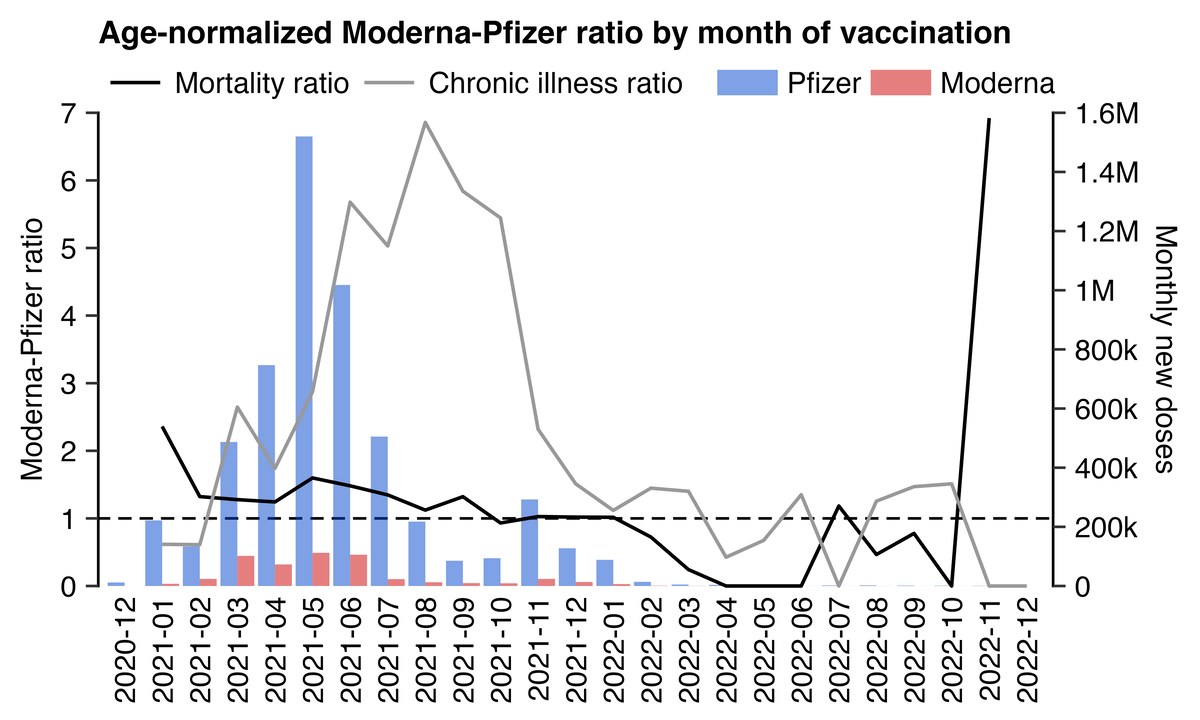
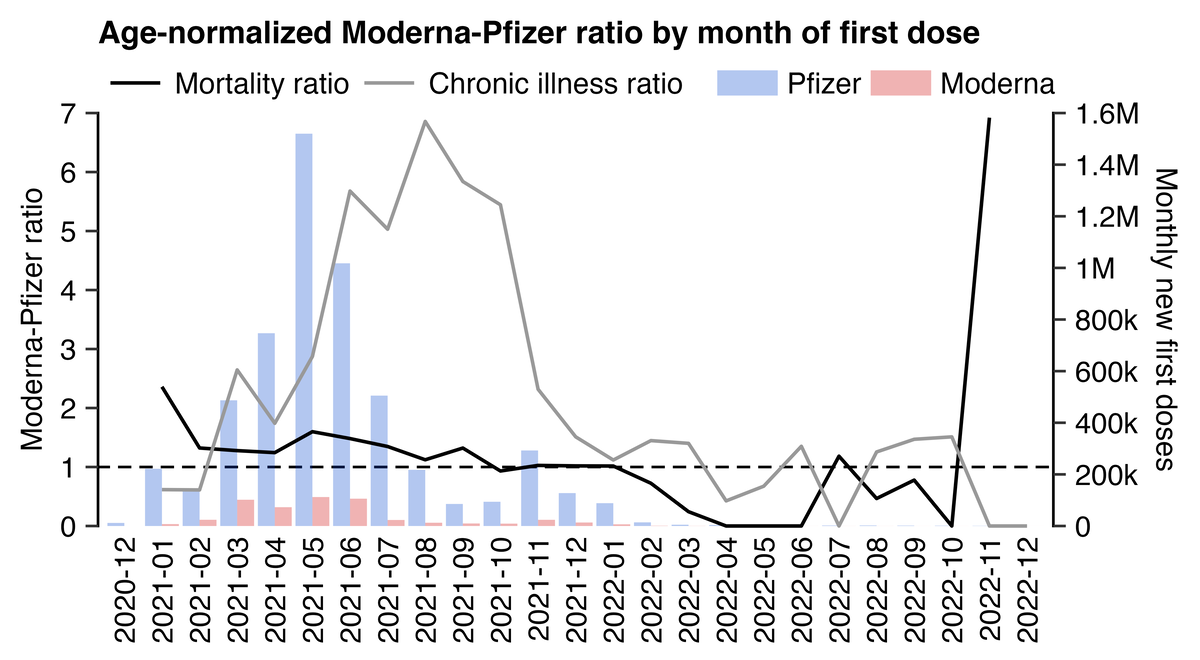
a

diff --git a/czech3.html b/czech3.html
@@ -63,6 +63,7 @@ blockquote blockquote blockquote,blockquote blockquote .quote,blockquote .quote 
 <li><a href=#Batch_safety_study_by_authors_from_Palack_University>Batch safety study by authors from Palacký University</a></li>
 <li><a href=#Monthly_percentage_of_COVID_deaths_in_unvaccinated_people>Monthly percentage of COVID deaths in unvaccinated people</a></li>
 <li><a href=#Age_standardized_hospitalization_rate_by_vaccination_status>Age-standardized hospitalization rate by vaccination status</a></li>
+<li><a href=#Hospitalizations_by_age_group_and_vaccination_status>Hospitalizations by age group and vaccination status</a></li>
 </ul>
 
 <h2>
@@ -216,7 +217,7 @@ round(m[&quot;Moderna&quot;,]/m[&quot;Pfizer&quot;,],2)</pre>
      NA      NA      NA    0.00    0.00    0.00    0.00    0.00      NA      NA
 2024-04 2024-05 2024-06 2024-07
      NA      NA     NaN      NA</pre>
-<p>This shows the chronic illness ratio compared to the age-normalized mortality ratio:</p>
+<p>This shows the age-normalized chronic illness ratio compared to the age-normalized mortality ratio:</p>
 <div class="width7">
 <img src="i/czech-chronic-4.png">
 </div>
@@ -456,11 +457,11 @@ a[order(-pyears)]|&gt;print(r=F)</pre>
                   Covovax      -100                0       85
                 Sputnik V      -100                0       28
                   COVAXIN      -100                0       16</pre>
-<p>The plot below shows the excess hospitalization percent by age and the month of the first dose. There's a diagonal pattern across different age groups where there's a low excess hospitalization percent during the same month when the number of new first doses peaked in the age group:</p>
+<p>The plot below shows the excess hospitalization percent by age and the month of the first dose. There's a diagonal pattern across different age groups where there's a low excess hospitalization percent during the same month when the number of first doses peaked in the age group:</p>
 <div class="width9">
 <img src="i/czech-hosprate.png">
 </div>
-<p>In the plot below I didn't normalize the total excess mortality by the month of vaccination so Janssen again got 57% excess hospitalizations, because late vaccinees also had a high age-normalized hospitalization rate for other vaccine types. However even in May 2021 when the total number of doses given peaked, Janssen and AstraZeneca had a much higher total hospitalization rate than Pfizer and Moderna:</p>
+<p>The next plot shows the excess hospitalization rate by vaccine type instead of age group. Janssen and AstraZeneca got a much higher total hospitalization rate than Pfizer and Moderna. I didn't normalize the total excess mortality by the month of vaccination so Janssen again got 57% excess hospitalizations (because the late vaccinees who had a high hospitalization rate were overrepresented for Janssen vaccines):</p>
 <div class="width10">
 <img src="i/czech-hosprate-2.png">
 </div>
@@ -520,7 +521,7 @@ system(paste0(&quot;pad=24;w=`identify -format %w i1.png`;magick -pointsize 40 -
 <img src="i/czech-mrrweeks.png">
 </div>
 <p>In the black line the ratio was only normalized by age. In the gray line the ratio was additionally normalized by ongoing month, but it didn't change the results that much.</p>
-<p>But anyway, you would at least think that there would be more vaccine deaths in weeks 0 to 29 than weeks 60 to 89. But because the Moderna-Pfizer ratio remains consistently elevated even more than a year after vaccination, it rather seems to be the product of the same kind of confounding factors which also cause late vaccinees to have much higher age-normalized mortality than early vaccinees.</p>
+<p>But anyway, you would at least think that there would be more vaccine deaths in weeks 0 to 29 after vaccination than in weeks 60 to 89. But because the Moderna-Pfizer ratio remains consistently elevated even more than a year after vaccination, it rather seems to be the product of some kind of confounding factors.</p>
 <pre>b=data.table::fread(&quot;http://sars2.net/f/czbucketskeep.csv.gz&quot;)
 b[,age:=pmax(pmin(95,age%/%5*5),15)]
 
@@ -596,7 +597,7 @@ a[,.(excess=(sum(hosp)/sum(base)-1)*100),type][order(-excess),excess:=round(exce
 <h2>
 <a href=#Batch_safety_study_by_authors_from_Palack_University id=Batch_safety_study_by_authors_from_Palack_University>Batch safety study by authors from Palacký University</a>
 </h2>
-<p>In June 2024 the Czech authors who uploaded the record-level data to GitHub published a paper which analyzed batch safety data they received through a freedom of information response: <a href="https://onlinelibrary.wiley.com/doi/abs/10.1111/eci.14271">https://onlinelibrary.wiley.com/doi/abs/10.1111/eci.14271</a>. The paper is behind a paywall, but I bought access to it and posted screenshots of the paper here: <a href=i/czech-batch-study.jpg>i/czech-batch-study.jpg</a>. The batch data can be downloaded from here: <a href="https://github.com/PalackyUniversity/batch-dependent-safety/blob/main/data/SUKL-batches-AE.xlsx">https://github.com/PalackyUniversity/batch-dependent-safety/blob/main/data/SUKL-batches-AE.xlsx</a>.</p>
+<p>In June 2024 the Czech authors who uploaded the record-level data to GitHub published a paper which analyzed batch safety data they received through a freedom of information response: <a href="https://onlinelibrary.wiley.com/doi/abs/10.1111/eci.14271">https://onlinelibrary.wiley.com/doi/abs/10.1111/eci.14271</a>. The paper is behind a paywall, but I bought access to it and posted screenshots of the paper here: <a href=i/czech-batch-study.jpg>i/czech-batch-study.jpg</a>. The batch data is available from this spreadsheet: <a href="https://github.com/PalackyUniversity/batch-dependent-safety/blob/main/data/SUKL-batches-AE.xlsx">https://github.com/PalackyUniversity/batch-dependent-safety/blob/main/data/SUKL-batches-AE.xlsx</a>.</p>
 <p>In the spreadsheet posted at GitHub, Pfizer vaccines got a lower rate of deaths than Moderna vaccines but a higher rate of serious adverse events:</p>
 <pre>library(data.table);library(openxlsx)
 
@@ -648,17 +649,37 @@ Other             6.53          1.10</pre>
      Janssen 47.3
      Novavax 41.5</pre>
 <p>However when I took an average age for the batches from the record-level data, it got a fairly low correlation with both the rate of deaths per batch and the rate of serious adverse events per batch:</p>
-<pre>&gt; download.file(&quot;http://sars2.net/f/czbucketsbatchkeep.csv.xz&quot;,&quot;czbucketsbatchkeep.csv.xz&quot;)
-&gt; b=fread(&quot;xz -dc czbucketsbatchkeep.csv.xz&quot;)
-&gt; ages=b[batch!=&quot;&quot;,.(alive=sum(alive)),.(age,batch)][,.(age=weighted.mean(age,alive)),batch]
-&gt; s1=data.table(read.xlsx(f))[,.(batch=sub(&quot;^\t&quot;,&quot;&quot;,batch_id),doses=doses_per_batch)]
-&gt; s2=data.table(read.xlsx(f,sheet=2))[,.(dead=sum(deaths),serious=sum(serious)),batch]
-&gt; me=merge(merge(s1,ages,all=T),s2,all=T)
-&gt; me[is.na(me)]=0
-&gt; me[doses&gt;0,cor(dead/doses,age)] # the correlation was about 0.18 between age and the rate of deaths
-[1] 0.1825102
-&gt; me[doses&gt;0,cor(serious/doses,age)] # the correlation was about 0.18 between age and the rate of serious adverse events
-[1] 0.1874058</pre>
+<pre>download.file(&quot;http://sars2.net/f/czbucketsbatchkeep.csv.xz&quot;,&quot;czbucketsbatchkeep.csv.xz&quot;)
+b=fread(&quot;xz -dc czbucketsbatchkeep.csv.xz&quot;)
+
+ages=b[batch!=&quot;&quot;,.(alive=sum(alive)),.(age,batch)][,.(age=weighted.mean(age,alive)),batch]
+
+s1=data.table(read.xlsx(f))[,.(batch=sub(&quot;^\t&quot;,&quot;&quot;,batch_id),doses=doses_per_batch)]
+s2=data.table(read.xlsx(f,sheet=2))[,.(dead=sum(deaths),serious=sum(serious)),batch]
+
+me=merge(merge(s1,ages,all=T),s2,all=T)
+me[is.na(me)]=0
+
+me[doses&gt;0,cor(dead/doses,age)]
+# [1] 0.1825102 (correlation between age and the rate of deaths)
+
+me[doses&gt;0,cor(serious/doses,age)]
+# [1] 0.1874058 (correlation between age and the rate of serious adverse events)</pre>
+<p>In the following code I calculated an age-normalized mortality rate for each batch in the record-level data. Its correlation was about -0.01 with both the rate of deaths in the spreadsheet and the rate of serious adverse events:</p>
+<pre>b=fread(&quot;xz -dc czbucketsbatchkeep.csv.xz&quot;)
+d=b[,.(dead=sum(dead),alive=sum(alive)),.(batch,age=ifelse(age&lt;15,0,pmin(age,95)))]
+d=merge(d,d[,.(base=sum(dead)/sum(alive)),.(age)])[,base:=base*alive]
+d=d[,.(rate=sum(dead)/sum(base)),batch]
+
+f=&quot;SUKL-batches-AE.xlsx&quot;
+s1=data.table(read.xlsx(f))[,.(batch=sub(&quot;^\t&quot;,&quot;&quot;,batch_id),doses=doses_per_batch)]
+s2=data.table(read.xlsx(f,sheet=2))[,.(dead=sum(deaths),serious=sum(serious)),batch]
+
+merge(d,merge(s1,s2)[doses&gt;0,.(reported=dead/doses),batch])[,cor(rate,reported)]
+# [1] -0.009126758
+
+merge(d,merge(s1,s2)[doses&gt;0,.(reported=serious/doses),batch])[,cor(rate,reported)]
+# [1] -0.01475335</pre>
 <h2>
 <a href=#Monthly_percentage_of_COVID_deaths_in_unvaccinated_people id=Monthly_percentage_of_COVID_deaths_in_unvaccinated_people>Monthly percentage of COVID deaths in unvaccinated people</a>
 </h2>
@@ -705,7 +726,7 @@ uv=rbind(uv,u[!month%in%uv$month,.(month,unvaxpoppct=uv[month==&quot;2022-12&quo
 
 me=merge(u,uv)[,ratio:=round(unvaxdeadpct/unvaxpoppct,1)]
 me[,4:5]=round(me[,4:5]);print(me,r=F)</pre>
-<p>The output shows that starting from May 2021 when the rollout of the first dose peaked, the percentage of COVID deaths in unvaccinated people out of all COVID deaths was about 2-4 times higher than the weighted percentage of the unvaccinated population size:</p>
+<p>The output shows that starting from May 2021 the percentage of COVID deaths in unvaccinated people was about 2 to 4 times higher than the weighted percentage of the unvaccinated population size:</p>
 <pre>   month totaldead unvaxdead unvaxdeadpct unvaxpoppct ratio
  2020-03        35        35          100         100   1.0
  2020-04       207       207          100         100   1.0
@@ -764,8 +785,8 @@ me[,4:5]=round(me[,4:5]);print(me,r=F)</pre>
 <h2>
 <a href=#Age_standardized_hospitalization_rate_by_vaccination_status id=Age_standardized_hospitalization_rate_by_vaccination_status>Age-standardized hospitalization rate by vaccination status</a>
 </h2>
-<p>The CSV file which showed hospitalizations by vaccine type didn't include the hospitalization date, but there's another file which includes the hospitalization week but not vaccine type: <a href="https://onemocneni-aktualne.mzcr.cz/api/v2/covid-19/ockovani-hospitalizace-tyden.csv">https://onemocneni-aktualne.mzcr.cz/api/v2/covid-19/ockovani-hospitalizace-tyden.csv</a>.</p>
-<p>I used the file to make the plot below, which shows that during the COVID wave in December 2021, unvaccinated people had about 6 times higher age-standardized hospitalization rate than vaccinated people. However the difference between the rates got smaller over time which may have been because unvaccinated people acquired natural immunity over time. So by December 2023 the rate was only about 1.5 times higher in unvaccinated people than in vaccinated people:</p>
+<p>The CSV file which showed hospitalizations by vaccine type didn't include the date of hospitalization, but there's another file which includes the week of hospitalization but not vaccine type: <a href="https://onemocneni-aktualne.mzcr.cz/api/v2/covid-19/ockovani-hospitalizace-tyden.csv">https://onemocneni-aktualne.mzcr.cz/api/v2/covid-19/ockovani-hospitalizace-tyden.csv</a>.</p>
+<p>I used the file to make the plot below, which shows that during the COVID wave in December 2021, unvaccinated people had about 6 times higher age-standardized hospitalization rate than vaccinated people. However the difference between the rates got smaller over time which may have been if unvaccinated people acquired natural immunity over time. So by December 2023 the rate was only about 1.5 times higher in unvaccinated people than in vaccinated people:</p>
 <div class="width6">
 <img src="i/czech-hospstandard.png">
 </div>
@@ -836,6 +857,119 @@ theme(axis.text=element_text(size=7,color=&quot;black&quot;),
   plot.subtitle=element_text(size=6.7,margin=margin(0,0,4,0)),
   plot.title=element_text(size=7.5,face=&quot;bold&quot;,margin=margin(2,0,4,0)))
 ggsave(&quot;1.png&quot;,width=3.8,height=2.3,dpi=300)</pre>
+<h2>
+<a href=#Hospitalizations_by_age_group_and_vaccination_status id=Hospitalizations_by_age_group_and_vaccination_status>Hospitalizations by age group and vaccination status</a>
+</h2>
+<p>The file <code>ockovani-hospitalizace-tyden.csv</code> has hospitalizations by age group and vaccination status, but it's missing data for 2020. The file <code>nakazeni-hospitalizace-testy.csv</code> has hospitalizations by age group and it includes 2020, but it's missing the vaccination stats, and also the total number of hospitalizations is much higher in than in the other file:</p>
+<pre>&gt; ho1=fread(&quot;ockovani-hospitalizace-tyden.csv&quot;)
+&gt; ho2=fread(&quot;nakazeni-hospitalizace-testy.csv&quot;)
+&gt; d1=ho1[,.(tyden=sum(hospitalizovani_celkem)),.(year=substr(tyden,1,4))]
+&gt; d2=ho2[,.(testy=sum(nove_hospitalizace,na.rm=T)),.(year=substr(datum,1,4))]
+&gt; merge(d1,d2)[,ratio:=testy/tyden][]
+   year  tyden  testy     ratio
+1: 2020   5139  65095 12.666861
+2: 2021 108847 133201  1.223745
+3: 2022  55494  72212  1.301258
+4: 2023  17133  24564  1.433724
+5: 2024   1460   2266  1.552055</pre>
+<p>Therefore I wasn't able to merge the two files so I could've included hospitalizations from 2020 in the plots below. So the plots below are also likely to miss about 20-30% of all hospitalizations in 2021-2022.</p>
+<p>The hospitalization figures at OWID seem to match the file <code>nakazeni-hospitalizace-testy.csv</code>:</p>
+<pre>$ wget covid.ourworldindata.org/data/owid-covid-data.csv
+$ csvtk cut -f location,date,weekly_hosp_admissions owid-covid-data.csv|grep Czechia|grep 2021|awk -F, &#39;{x+=$3}END{print x/7}&#39;
+134893</pre>
+<p>But anyway the following plot still shows that in ages 12-19 where there's the lowest percentage of vaccinated people, the total number of hospitalizations during the peak in February 2022 is higher than the number of hospitalizations at the start of 2021. But in ages 80+ where there's the highest percentage of vaccinated people, the total number of hospitalizations during the peak around February 2022 is much smaller than at the start of 2021.</p>
+<p>And also if you add together the blue and red lines during the peak in March 2021, then the combined height of the lines is lower in old age groups that got vaccinated earlier:</p>
+<p>However it's also weird that during the peak in February 2022, ages 12-19 have almost the same number of hospitalizations in vaccinated and unvaccinated people even though the percentage of vaccinated people is not that high.</p>
+<p><img src=i/czech-hospvaxun.png style=max-width:520px></p>
+<p>The next plot which shows the hospitalization rate per million people instead of the raw number of hospitalizations. Now vaccinated people in ages 12-19 got a big spike in the hospitalization rate around April 2021, but it's probably because vulnerable or immunocompromised people had been priorized for vaccination. But otherwise unvaccinated people generally continue to have a much higher hospitalization rate than vaccinated people up to around mid-2022, after which the difference probably gets smaller because unvaccinated people have acquired natural immunity:</p>
+<p><img src=i/czech-hospvaxun-2.png style=max-width:520px></p>
+<pre>library(data.table);library(ggplot2)
+
+ma=\(x,b=1,f=b){x[]=rowMeans(embed(c(rep(NA,b),x,rep(NA,f)),f+b+1),na.rm=T);x}
+
+agecut=\(x,y)cut(x,c(y,Inf),paste0(y,c(paste0(&quot;-&quot;,y[-1]-1),&quot;+&quot;)),T,F)
+ages=c(12,20,30,50,65,80)
+
+t=fread(&quot;ockovani-hospitalizace-tyden.csv&quot;)
+t=t[,.(date=tyden_od+3,hosp=c(hospitalizovani_celkem-hospitalizovani_bez_ockovani,hospitalizovani_bez_ockovani),status=rep(c(&quot;Vaccinated&quot;,&quot;Unvaccinated&quot;),each=.N),age=agecut(as.integer(sub(&quot;[-+].*&quot;,&quot;&quot;,vekova_skupina)),ages))]
+
+a=t[,spline(date,hosp/7,xout=min(t$date):max(t$date)),.(age,status)][,.(hosp=sum(y)),.(age,status,date=as.IDate(x))]
+
+hosp=fread(&quot;nakazeni-hospitalizace-testy.csv&quot;)
+hosp=hosp[vekova_kategorie!=&quot;-&quot;&amp;datum&lt;&quot;2021-1-1&quot;,.(hosp=sum(nove_hospitalizace,na.rm=T),status=&quot;Unvaccinated&quot;),.(age=agecut(as.numeric(sub(&quot;[-+].*&quot;,&quot;&quot;,vekova_kategorie)),ages),date=datum)]
+a=rbind(a[date&gt;=&quot;2021-1-1&quot;],hosp)
+
+b=fread(&quot;czbucketsdaily.csv.gz&quot;)[,.(pop=sum(as.double(alive))),.(date,status=ifelse(dose==0,&quot;Unvaccinated&quot;,&quot;Vaccinated&quot;),age=agecut(age,ages))]
+
+last=b[date==&quot;2022-12-31&quot;,2:4]
+b=rbind(b,cbind(last,date=rep(as.IDate(setdiff(a$date,b$date)),each=nrow(last))))
+
+me=merge(a,b)
+me=merge(me,me[,.(base=sum(hosp)/sum(pop)),age])[,base:=base*pop]
+me=me[,.(hosp=sum(hosp),pop=sum(pop)),.(status,date,age)]
+
+# first plot
+p=me[,.(y=ma(hosp/pop,10),date),.(z=status,age)]
+
+# # second plot
+# p=me[,.(y=ifelse(pop&lt;2e3,NA,ma(hosp/pop*1e6,10)),date),.(z=status,age)]
+
+xstart=as.Date(&quot;2021-01-01&quot;);xend=as.Date(&quot;2024-1-1&quot;)
+xbreak=seq(xstart,xend,&quot;6 month&quot;);xlab=c(rbind(&quot;&quot;,2021:2023),&quot;&quot;)
+
+p=p[date&gt;=xstart&amp;date&lt;=xend]
+p=merge(p,p[,.(max=max(y)),age])
+
+v=merge(b[status==&quot;Vaccinated&quot;,.(age,date,vax=pop)],b[,.(pop=sum(pop)),.(date,age)])
+p=rbind(p,v[,.(y=vax/pop,z=&quot;Percent vaccinated&quot;,age,date,max=1)])
+
+p=p[!is.na(age)]
+p$z=factor(p$z,c(&quot;Unvaccinated&quot;,&quot;Vaccinated&quot;,&quot;Percent vaccinated&quot;))
+
+color=c(hsv(c(7,0)/12,1,.8),&quot;black&quot;)
+
+ggplot(p,aes(x=date))+
+facet_wrap(~age,ncol=1,strip.position=&quot;top&quot;)+
+geom_vline(xintercept=seq(xstart,xend,&quot;month&quot;),linewidth=.2,color=&quot;gray92&quot;)+
+geom_vline(xintercept=seq(xstart,xend,&quot;3 month&quot;),linewidth=.25,color=&quot;gray83&quot;)+
+geom_vline(xintercept=seq(xstart,xend,&quot;year&quot;),linewidth=.25,color=&quot;gray66&quot;,lineend=&quot;square&quot;)+
+geom_vline(xintercept=c(xstart,xend),linewidth=.25,lineend=&quot;square&quot;)+
+geom_hline(yintercept=0:1,linewidth=.25,lineend=&quot;square&quot;)+
+geom_line(aes(y=y/max,color=z),linewidth=.35)+
+geom_label(data=p[!duplicated(age)],aes(label=sprintf(&quot;\n   %s (%.0f)  \n&quot;,age,max)),x=xend,y=1,lineheight=.5,hjust=1,vjust=1,size=2.3,fill=alpha(&quot;white&quot;,1),label.r=unit(0,&quot;lines&quot;),label.padding=unit(0,&quot;lines&quot;),label.size=.25)+
+labs(x=NULL,y=NULL,title=&quot;Daily hospitalizations by vaccination status&quot;,subtitle=&quot;±10-day moving averages, not adjusted for population size. Displayed as percentage of the maximum value which is shown in parentheses.&quot;|&gt;stringr::str_wrap(64))+
+scale_x_date(limits=c(xstart,xend),breaks=xbreak,labels=xlab)+
+scale_y_continuous(limits=0:1)+
+scale_color_manual(values=color)+
+coord_cartesian(clip=&quot;off&quot;,expand=F)+
+guides(color=guide_legend(nrow=1,byrow=F))+
+theme(axis.text=element_text(size=7,color=&quot;black&quot;),
+  axis.text.y=element_blank(),
+  axis.ticks=element_blank(),
+  axis.ticks.x=element_line(color=alpha(&quot;black&quot;,c(1,0)),linewidth=.25),
+  axis.ticks.length=unit(0,&quot;lines&quot;),
+  axis.ticks.length.x=unit(.15,&quot;lines&quot;),
+  legend.background=element_blank(),
+  legend.box.spacing=unit(0,&quot;pt&quot;),
+  legend.direction=&quot;horizontal&quot;,
+  legend.justification=c(1,.5),
+  legend.key.height=unit(.7,&quot;lines&quot;),
+  legend.key.width=unit(1.1,&quot;lines&quot;),
+  legend.key=element_rect(fill=alpha(&quot;white&quot;,0)),
+  legend.margin=margin(.15,0,0,0,&quot;lines&quot;),
+  legend.position=&quot;bottom&quot;,
+  legend.spacing.x=unit(.1,&quot;lines&quot;),
+  legend.text=element_text(size=7,vjust=.5),
+  legend.title=element_blank(),
+  panel.spacing=unit(0,&quot;lines&quot;),
+  panel.background=element_rect(fill=&quot;white&quot;),
+  panel.grid=element_blank(),
+  plot.margin=margin(.3,.3,.3,.3,&quot;lines&quot;),
+  plot.subtitle=element_text(size=6.8,margin=margin(0,0,.6,0,&quot;lines&quot;)),
+  plot.title=element_text(size=7.2,face=&quot;bold&quot;,margin=margin(.1,0,.5,0,&quot;lines&quot;)),
+  strip.background=element_blank(),
+  strip.text=element_blank())
+ggsave(&quot;1.png&quot;,width=3,height=4.7,dpi=450)</pre>
 <script>
 let q=document.querySelectorAll('a,code,pre')
 for(let i=0;e=q[i];i++)e.innerHTML=e.innerHTML.replace(/(\w{60,})/g,x=>x.replace(/./g,"$&<wbr>")).replace(/([\041-\045\047-\057\072\075\077-\100\133-\137\173-\176])/g,"$1<wbr>")
